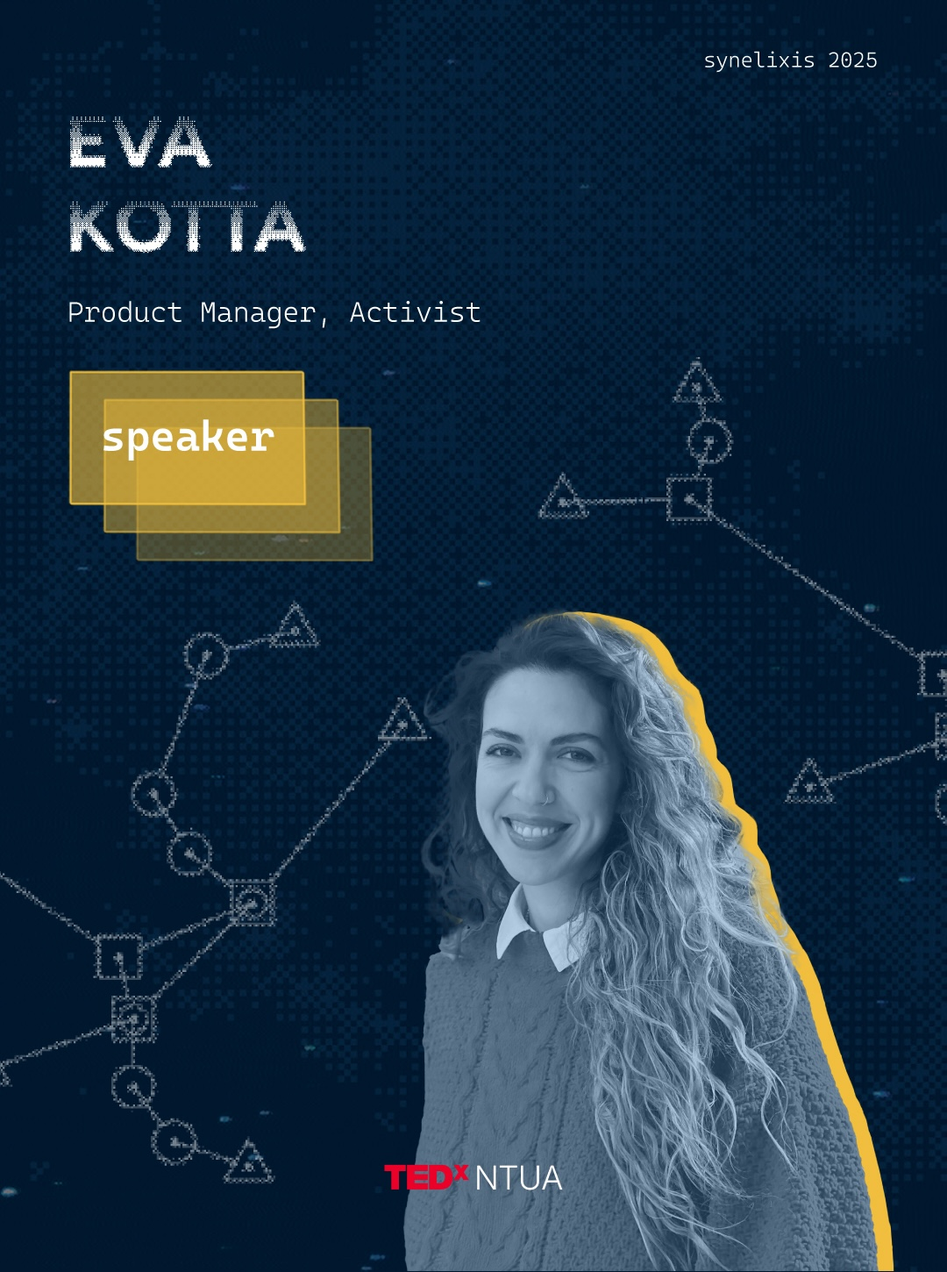
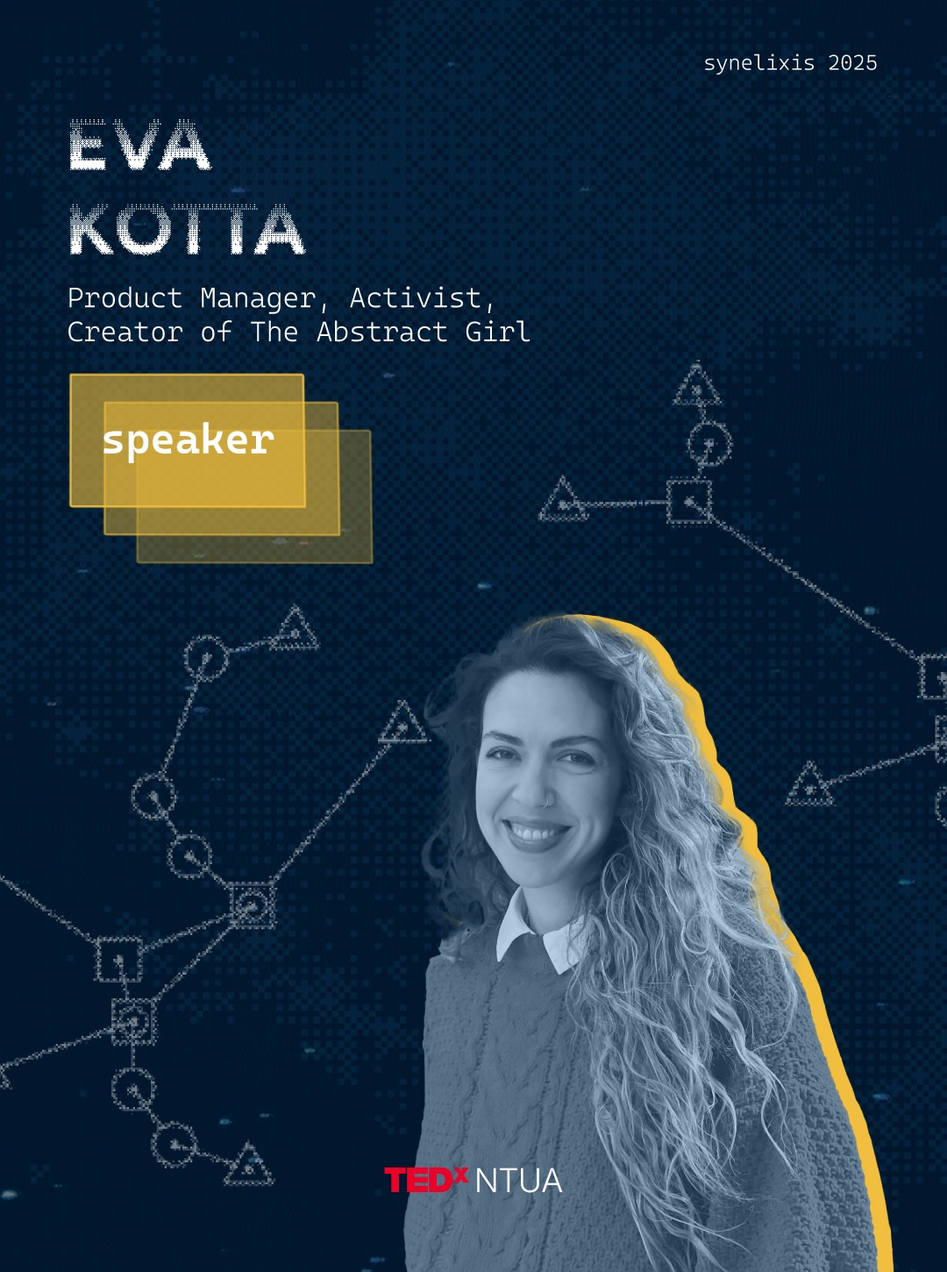
chore: add more new speakers

diff --git a/data/speakers.js b/data/speakers.js
@@ -146,59 +146,139 @@ export const SPEAKERS = [
     bioGR:
       'Αρχιτέκτων και Αρχιτέκτων Τοπίου, προάγει την απλότητα και τη χωρική ευελιξία μέσω καινοτόμων, bottom-up συστημάτων. Επικεντρώνεται στην ανεξάρτητη έρευνα και τη διάδοση γνώσεων για τον σύγχρονο σχεδιασμό βιώσιμων δημόσιων χώρων. Μέσω των μελετών της, δημιουργεί πρακτικές που ενδυναμώνουν τις κοινότητες, διαμορφώνοντας πόλεις που είναι όχι μόνο προσαρμοστικές αλλά και ικανές να εξελίσσονται μέσα από προκλήσεις.',
     bioEN: ''
+  },
+  {
+    slug: 'vangelis-simakis',
+    fullNameGR: 'Βαγγέλης Σιμάκης ',
+    fullNameEN: 'Vangelis Simakis',
+    artisticName: 'Backpack Brothers / Α.Τ.Α.Χ.Τ.Ο.Ι.',
+    jobGR: 'Συνιδρυτής BACKPACK BROTHERS / A.T.A.X.T.O.I.',
+    jobEN: 'Co-Founder BACKPACK BROTHERS / A.T.A.X.T.O.I.',
+    infoLinks: {
+      facebook: [
+        'https://www.facebook.com/Ataxtoi/',
+        'https://www.facebook.com/backpackbrothers.gr'
+      ],
+      instagram: [
+        'https://www.instagram.com/ataxtoi/',
+        'https://www.instagram.com/backpackbrothers.gr/'
+      ]
+    },
+    session: 0,
+    time: '',
+    talkCategory: 'Volunteering',
+    talkDescriptionGR:
+      'Ο εθελοντισμός καθιστά την απόλυτη έκφραση της συνέλιξης, καθώς έρχεται να αποδείξει πως διάφορες μικρές πράξεις καλοσύνης μπορούν να πυροδοτήσουν ένα μεγάλο κύμα αλλαγής. Είναι μια πράξη θεμελιωμένη πάνω στην έννοια της αλληλεπίδρασης, του κάθε εθελοντή με τον εαυτό του, των ανθρώπων μεταξύ τους, του καθενός μας με την κοινωνία που έχουμε απέναντί μας και την κοινωνία που θα θέλαμε να έχουμε. Δεν πρόκειται για μια σχέση δότη και αποδέκτη βοήθειας, αλλά για μια συνάντηση δύο κόσμων διαφορετικών αλλά ίσων, που αλληλεπιδρούν, μαθαίνουν ο ένας από τον άλλον και δημιουργούν νέες προοπτικές.',
+    talkDescriptionEN: '',
+    bioGR:
+      'Γεννήθηκε στο Ηράκλειο Κρήτης, ενώ σπούδασε Οικονομικές Επιστήμες στο Πανεπιστήμιο στο Ρέθυμνο. Κατέχει επίσης μεταπτυχιακό στην Εκπαίδευση και πιο συγκεκριμένα της Κριτικής Παιδαγωγικής και Εκπαίδευσης Εκπαιδευτικών του ίδιου ιδρύματος. Η ενασχόληση με τον εθελοντισμό ξεκίνησε στο Ηράκλειο και μέσα απο το Εθελοντικό Σωματείο Α.Τ.Α.Χ.Τ.Ο.Ι., ενώ στην συνέχεια ίδρυσε μαζί με τον αδελφό του Σαράντη, τους Backpack Brothers.',
+    bioEN:
+      'He was born in Heraklion, Crete, and studied Economic Sciences at the University of Rethymno. He also holds a Master’s degree in Education, specializing in Critical Pedagogy and Teacher Education from the same institution. His involvement with volunteering began in Heraklion through the volunteer organization A.T.A.X.T.O.I., and later, together with his brother Sarantis, he founded the Backpack Brothers.'
+  },
+  {
+    slug: 'eva-kotta',
+    fullNameGR: 'Εύα Κώττα',
+    fullNameEN: 'Eva Kotta',
+    artisticName: 'The Abstract Girl',
+    jobGR: 'Product Manager, Ακτιβίστρια & Δημιοργός του The Abstract Girl',
+    jobEN: 'Product Manager, Activist & Creator of the Abstract Girl',
+    infoLinks: {
+      facebook: ['https://www.facebook.com/p/The-Abstract-Girl-100063759715231/'],
+      instagram: ['https://www.instagram.com/the.abstract.girl/']
+    },
+    session: 0,
+    time: '',
+    talkCategory: '',
+    talkDescriptionGR:
+      'H έννοια της αλληλεπίδρασης σχετίζεται άμεσα με τις κοινωνικές και πολιτισμικές κατασκευές του φύλου, την έννοια της ατομικής και συλλογικής ταυτότητας και με τη σεξουαλικότητα. Πώς οι αντιλήψεις γύρω από αυτές τις έννοιες διαμορφώνουν γενικότερα τις κοινωνικές σχέσεις; Πώς επηρεάζονται και αντιδρούν τα άτομα στους κυρίαρχους και στερεοτυπικούς λόγους; Με ποιον τρόπο η πατριαρχία έχει δομήσει το αφήγημα των θηλυκών οντοτήτων; Η εσωτερίκευση του σεξισμού και η κατασκευασμένη ηθική η οποία μας επιβάλλεται υποσυνείδητα, με ποιον τρόπο "συνελίσσονται" μεταξύ τους και καταλήγουν στη δημιουργία τύψεων και δυσλειτουργικών συναισθημάτων; Αλλά και στο επίπεδο της ατομικής μας ταυτότητας, μήπως η συνέλιξη είναι η βάση της δόμησής της, καθώς οι διάφορες πτυχές του εαυτού μας αλληλεπιδρούν συνθέτοντάς την;',
+    talkDescriptionEN: '',
+    bioGR:
+      'Η Εύα Κώττα μεγάλωσε στο Αμύνταιο της Φλώρινας και σπούδασε Ηλεκτρολόγος Μηχανικός και Μηχανικός Υπολογιστών στο Αριστοτέλειο Πανεπιστήμιο Θεσσαλονίκης. Τα τελευταία χρόνια ζει και εργάζεται στην Αθήνα. Από το 2020, αναπτύσσει ακτιβιστική δράση στα μέσα κοινωνικής δικτύωσης μέσα από τον λογαριασμό της “The Abstract Girl”, όπου μοιράζεται σκέψεις και απόψεις για την κοινωνία και την ισότητα των φύλων.',
+    bioEN:
+      'Eva Kotta grew up in Amyntaio, Florina, and studied Electrical and Computer Engineering at the Aristotle University of Thessaloniki. In recent years, she has been living and working in Athens. Since 2020, she has been engaging in activism on social media through her account “The Abstract Girl,” where she shares thoughts and perspectives on society and gender equality.'
   }
   // {
-  //   slug: 'vangelis-simakis',
-  //   fullNameGR: 'Βαγγέλης Σιμάκης ',
-  //   fullNameEN: 'Vangelis Simakis',
-  //   artisticName: 'Backpack Brothers / Α.Τ.Α.Χ.Τ.Ο.Ι.',
-  //   jobGR: 'Συνιδρυτής BACKPACK BROTHERS / A.T.A.X.T.O.I.',
-  //   jobEN: 'Co-Founder BACKPACK BROTHERS / A.T.A.X.T.O.I.',
+  //   slug: 'gogo-delogianni',
+  //   fullNameGR: 'Γωγώ Δελογιάννη',
+  //   fullNameEN: 'Gogo Delogianni',
+  //   artisticName: '',
+  //   jobGR: '',
+  //   jobEN: 'Chef / Foodlover',
   //   infoLinks: {
-  //     facebook: [
-  //       'https://www.facebook.com/Ataxtoi/',
-  //       'https://www.facebook.com/backpackbrothers.gr'
-  //     ],
-  //     instagram: [
-  //       'https://www.instagram.com/ataxtoi/',
-  //       'https://www.instagram.com/backpackbrothers.gr/'
-  //     ]
-  //   },
-  //   session: 0,
-  //   time: '',
-  //   talkCategory: 'Volunteering',
-  //   talkDescriptionGR:
-  //     'Ο εθελοντισμός καθιστά την απόλυτη έκφραση της συνέλιξης, καθώς έρχεται να αποδείξει πως διάφορες μικρές πράξεις καλοσύνης μπορούν να πυροδοτήσουν ένα μεγάλο κύμα αλλαγής. Είναι μια πράξη θεμελιωμένη πάνω στην έννοια της αλληλεπίδρασης, του κάθε εθελοντή με τον εαυτό του, των ανθρώπων μεταξύ τους, του καθενός μας με την κοινωνία που έχουμε απέναντί μας και την κοινωνία που θα θέλαμε να έχουμε. Δεν πρόκειται για μια σχέση δότη και αποδέκτη βοήθειας, αλλά για μια συνάντηση δύο κόσμων διαφορετικών αλλά ίσων, που αλληλεπιδρούν, μαθαίνουν ο ένας από τον άλλον και δημιουργούν νέες προοπτικές.',
-  //   talkDescriptionEN: '',
-  //   bioGR:
-  //     'Γεννήθηκε στο Ηράκλειο Κρήτης, ενώ σπούδασε Οικονομικές Επιστήμες στο Πανεπιστήμιο στο Ρέθυμνο. Κατέχει επίσης μεταπτυχιακό στην Εκπαίδευση και πιο συγκεκριμένα της Κριτικής Παιδαγωγικής και Εκπαίδευσης Εκπαιδευτικών του ίδιου ιδρύματος. Η ενασχόληση με τον εθελοντισμό ξεκίνησε στο Ηράκλειο και μέσα απο το Εθελοντικό Σωματείο Α.Τ.Α.Χ.Τ.Ο.Ι., ενώ στην συνέχεια ίδρυσε μαζί με τον αδελφό του Σαράντη, τους Backpack Brothers.',
-  //   bioEN:
-  //     'He was born in Heraklion, Crete, and studied Economic Sciences at the University of Rethymno. He also holds a Master’s degree in Education, specializing in Critical Pedagogy and Teacher Education from the same institution. His involvement with volunteering began in Heraklion through the volunteer organization A.T.A.X.T.O.I., and later, together with his brother Sarantis, he founded the Backpack Brothers.'
-  // },
-  // {
-  //   slug: 'eva-kotta',
-  //   fullNameGR: 'Εύα Κώττα',
-  //   fullNameEN: 'Eva Kotta',
-  //   artisticName: 'The Abstract Girl',
-  //   jobGR: 'Product Manager & Ακτιβίστρια',
-  //   jobEN: 'Product Manager & Activist',
-  //   infoLinks: {
-  //     facebook: ['https://www.facebook.com/p/The-Abstract-Girl-100063759715231/'],
-  //     instagram: ['https://www.instagram.com/the.abstract.girl/']
+  //     instagram: [''],
+  //     facebook: ['']
   //   },
   //   session: 0,
   //   time: '',
   //   talkCategory: '',
   //   talkDescriptionGR:
-  //     'H έννοια της αλληλεπίδρασης σχετίζεται άμεσα με τις κοινωνικές και πολιτισμικές κατασκευές του φύλου, την έννοια της ατομικής και συλλογικής ταυτότητας και με τη σεξουαλικότητα. Πώς οι αντιλήψεις γύρω από αυτές τις έννοιες διαμορφώνουν γενικότερα τις κοινωνικές σχέσεις; Πώς επηρεάζονται και αντιδρούν τα άτομα στους κυρίαρχους και στερεοτυπικούς λόγους; Με ποιον τρόπο η πατριαρχία έχει δομήσει το αφήγημα των θηλυκών οντοτήτων; Η εσωτερίκευση του σεξισμού και η κατασκευασμένη ηθική η οποία μας επιβάλλεται υποσυνείδητα, με ποιον τρόπο "συνελίσσονται" μεταξύ τους και καταλήγουν στη δημιουργία τύψεων και δυσλειτουργικών συναισθημάτων; Αλλά και στο επίπεδο της ατομικής μας ταυτότητας, μήπως η συνέλιξη είναι η βάση της δόμησής της, καθώς οι διάφορες πτυχές του εαυτού μας αλληλεπιδρούν συνθέτοντάς την;',
+  //     'Η γαστρονομία και η μαγειρική ως εμπειρία, όπου αισθήσεις "συνελίσσονται" οδηγώντας στο συναισθηματικό χρωματισμό του ίδιου του φαγητού, αλλά και της συνθήκης του να τρως. Πώς κάποιο φαγητό μπορεί να εγείρει συναισθήματα που επεκτείνονται και πέρα από την προσωρινή απόλαυση και πώς τα άτομα που σε συντροφεύουν, αλλά και ο χώρος και η ενέργεια που σε περιβάλλουν επηρεάζουν την εμπειρία σου αυτή; Η σύνδεση της κουζίνας με τον πολιτισμό. Πώς κάθε συνταγή φέρει μαζί της ένα κομμάτι της ανθρώπινης ιστορίας και της παράδοσης. Γαστρονομικός τουρισμός ως τρόπος βίωσης ενός πολιτισμού. Η κοινωνική κουζίνα ως απόδειξη της ιδιαιτερότητας που χαρακτηρίζει το φαγητό, το οποίο αποτελεί βασική ανάγκη για την επιβίωσή μας αλλά και κίνητρο που φέρνει τους ανθρώπους κοντά. Τι προκλήσεις φέρνουν οι ισχύουσες περιβαλλοντικές και όχι μόνο συνθήκες στο χώρο της μαγειρικής και της γαστρονομίας; Γιατί τα φαγητά δεν έχουν την ίδια γεύση με κάποτε, γιατί είναι τόσο δύσκολο να βρεις καλό φαγητό σε προσιτή τιμή;',
   //   talkDescriptionEN: '',
   //   bioGR:
-  //     'Η Εύα Κώττα μεγάλωσε στο Αμύνταιο της Φλώρινας και σπούδασε Ηλεκτρολόγος Μηχανικός και Μηχανικός Υπολογιστών στο Αριστοτέλειο Πανεπιστήμιο Θεσσαλονίκης. Τα τελευταία χρόνια ζει και εργάζεται στην Αθήνα. Από το 2020, αναπτύσσει ακτιβιστική δράση στα μέσα κοινωνικής δικτύωσης μέσα από τον λογαριασμό της “The Abstract Girl”, όπου μοιράζεται σκέψεις και απόψεις για την κοινωνία και την ισότητα των φύλων.',
-  //   bioEN:
-  //     'Eva Kotta grew up in Amyntaio, Florina, and studied Electrical and Computer Engineering at the Aristotle University of Thessaloniki. In recent years, she has been living and working in Athens. Since 2020, she has been engaging in activism on social media through her account “The Abstract Girl,” where she shares thoughts and perspectives on society and gender equality.'
+  //     'Η Γωγώ Δελογιάννη είναι από δυο μικρά χωριά, το Νέο Ηραίο Άργους και το Ριζοβούνι Πρεβέζης. Το δεύτερο της πτυχίο είναι από τη σχολή Τουριστικών Επαγγελμάτων Άργους και έκτοτε δουλεύει ως μαγείρισσα. Έχει περάσει, μεταξύ άλλων, από τις κουζίνες της Fuga στο Μέγαρο Μουσικής, του Costa Navarino, έχει τρέξει κάποια προσωπικά pop up projects καθώς και ένα εστιατόριο, έχει συνθέσει μενού για εστιατόρια και ξενοδοχεία σε όλη την Ελλάδα, έχει εργαστεί στην τηλεοπτική εκπομπή Dot. Αυτή τη στιγμή τη βρίσκουμε ως μαγείρισσα στην τηλεοπτική εκπομπή “Πρωΐαν σε είδον” στην ΕΡΤ1. Έχει ένα σκύλο και της αρέσει να ακούει μουσική. Η μεγάλη της αγάπη είναι το φαγητό της Μεσογείου, με φανερή προτίμηση στην ελληνική και την ιταλική παραδοσιακή κουζίνα. Θεωρεί τιμή και μεγάλη επαγγελματική επένδυση να μαγειρεύει για όλους, όπως ακριβώς για τους αγαπημένους της. Κι αυτό κάνει. Φτιάχνει, όπως λέει η ίδια “το φαγητό που θα φας μια Κυριακή σε ένα αγαπημένο σου τραπέζι. Το φαγητό που μπορεί να σε ζεστάνει, μετά από μια δύσκολη μέρα.',
+  //   bioEN: ''
   // }
   // {
-  //   slug: 'aristides-eliopoulos',
+  //   slug: 'evi-daeli',
+  //   fullNameGR: 'Εύη Δαέλη',
+  //   fullNameEN: 'Evi Daeli',
+  //   artisticName: '',
+  //   jobGR: 'Ηθοποιός',
+  //   jobEN: 'Actress',
+  //   infoLinks: {
+  //     instagram: [''],
+  //     facebook: ['']
+  //   },
+  //   session: 0,
+  //   time: '',
+  //   talkCategory: '',
+  //   talkDescriptionGR: '',
+  //   talkDescriptionEN: '',
+  //   bioGR:
+  //     'Η Εύη Δαέλη είναι ηθοποιός και content creator. Έχει συμμετάσχει σε γνωστές σειρές όπως «Ευτυχισμένοι Μαζί» και «Έλα στη Θέση μου», καθώς και σε κινηματογραφικές παραγωγές. Τα τελευταία χρόνια δραστηριοποιείται στον χώρο των social media με διάφορες συνεργασίες beauty/skincare. Είναι φοιτήτρια Ψυχολογίας στο ICPS, με στόχο να συνδέσει την τέχνη της υποκριτικής με την ψυχική υγεία.',
+  //   bioEN: ''
+  // },
+  // {
+  //   slug: 'aris-tsapis',
+  //   fullNameGR: 'Άρης Τσάπης',
+  //   fullNameEN: 'Aris Tsapis',
+  //   artisticName: '',
+  //   jobGR: 'Ηθοποιός',
+  //   jobEN: 'Actor',
+  //   infoLinks: {
+  //     instagram: [''],
+  //     facebook: ['']
+  //   },
+  //   session: 0,
+  //   time: '',
+  //   talkCategory: '',
+  //   talkDescriptionGR: '',
+  //   talkDescriptionEN: '',
+  //   bioGR:
+  //     'Ο Άρης Τσάπης είναι ηθοποιός με εμπειρία στην τηλεόραση, τον κινηματογράφο και το θέατρο από το 2003. Έγινε γνωστός από τη σειρά "Ευτυχισμένοι Μαζί" και έχει συμμετάσχει σε διαφημίσεις, τηλεοπτικές σειρές, θεατρικές παραστάσεις και κινηματογραφικές ταινίες. Έχει παρουσιάσει ταξιδιωτική εκπομπή και ήταν υποψήφιος για βραβείο Α` ανδρικού ρόλου στο Φεστιβάλ Θεσσαλονίκης.',
+  //   bioEN: ''
+  // }
+  // {
+  //   slug: '',
+  //   fullNameGR: '',
+  //   fullNameEN: '',
+  //   artisticName: '',
+  //   jobGR: '',
+  //   jobEN: '',
+  //   infoLinks: {
+  //        instagram: [''],
+  //        facebook: ['']
+  //    },
+  //   session: 0,
+  //   time: '',
+  //   talkCategory: '',
+  //   talkDescriptionGR: '',
+  //   talkDescriptionEN: '',
+  //   bioGR: '',
+  //   bioEN: ''
+  // },
+  // {
+  //   slug: 'aristides-g-eliopoulos',
   //   fullNameGR: 'Αριστείδης Γ. Ηλιόπουλος',
   //   fullNameEN: 'Aristides G. Eliopoulos',
   //   artisticName: '',
@@ -225,16 +305,16 @@ export const SPEAKERS = [
   //   jobGR: 'Καλλιτέχνης & Στιχουργός',
   //   jobEN: 'Artist & Lyricist',
   //   infoLinks: {
-  //        'instagram': ['https://www.instagram.com/zografos_vita/'],
+  //        instagram: ['https://www.instagram.com/zografos_vita/'],
   //        facebook: ['https://www.facebook.com/people/Zografos-Vita/100008272368995/']
   //    },
   //   session: 0,
   //   time: '',
   //   talkCategory: '',
-  //   talkDescriptionGR: 'Στην εποχή της γενετικής ανάλυσης, της τεχνητής νοημοσύνης και της συνθετικής βιολογίας, το Δελφικό παράγγελμα «γνώθι σεαυτόν» αποκτά νέο, κυριολεκτικό νόημα. Για πρώτη φορά μπορούμε να διαβάσουμε τον εαυτό μας σε μοριακό επίπεδο, και ίσως, να τον ξαναγράψουμε. Η ομιλία εξερευνά τη συνέλιξη της γενετικής με την τεχνολογία, πώς αυτή αλλάζει την έννοια της ταυτότητας, και τι σημαίνει να έχεις τη δύναμη της πρόβλεψης ή της παρέμβασης στη ζωή. Μπορεί η επιστήμη να ενδυναμώσει τον άνθρωπο χωρίς να τον αλλοιώσει;',
+  //   talkDescriptionGR: '',
   //   talkDescriptionEN: '',
   //   bioGR:
-  //     'Ο Αριστείδης Ηλιόπουλος είναι Καθηγητής Βιολογίας και Γενετικής στην Ιατρική Σχολή του ΕΚΠΑ και συνιδρυτής της εταιρείας-τεχνοβλαστού GENOSOPHY ® . Το έργο του γεφυρώνει την μοριακή γενετική, τη βιοπληροφορική και την ιατρική ακριβείας, με διεθνείς διακρίσεις, πέντε πατέντες, εκτεταμένο εκπαιδευτικό έργο και ενεργό συμμετοχή σε εμβληματικές ερευνητικές δράσεις.',
+  //     '',
   //   bioEN: ''
   // },
 ];
